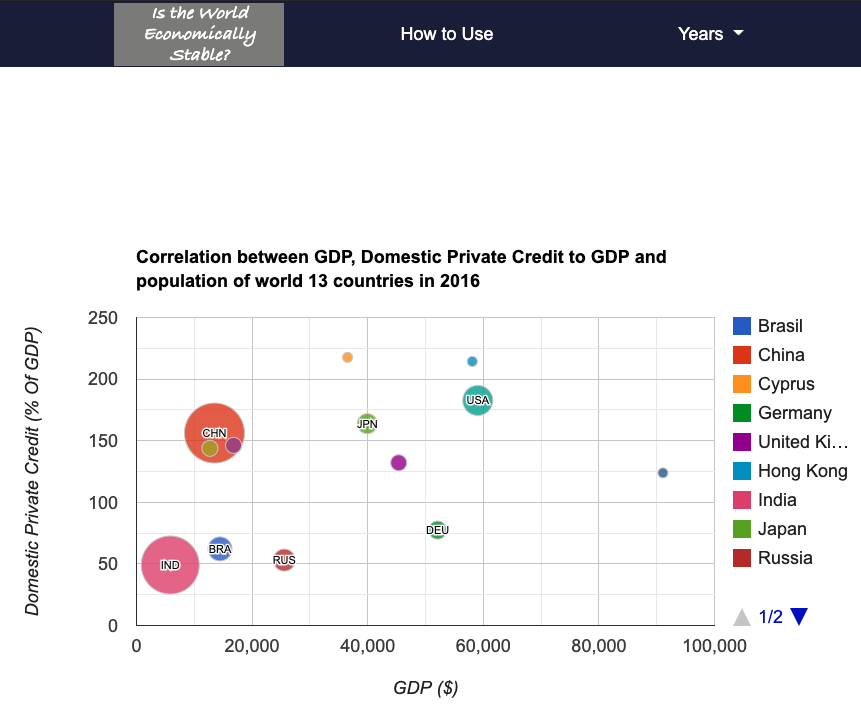
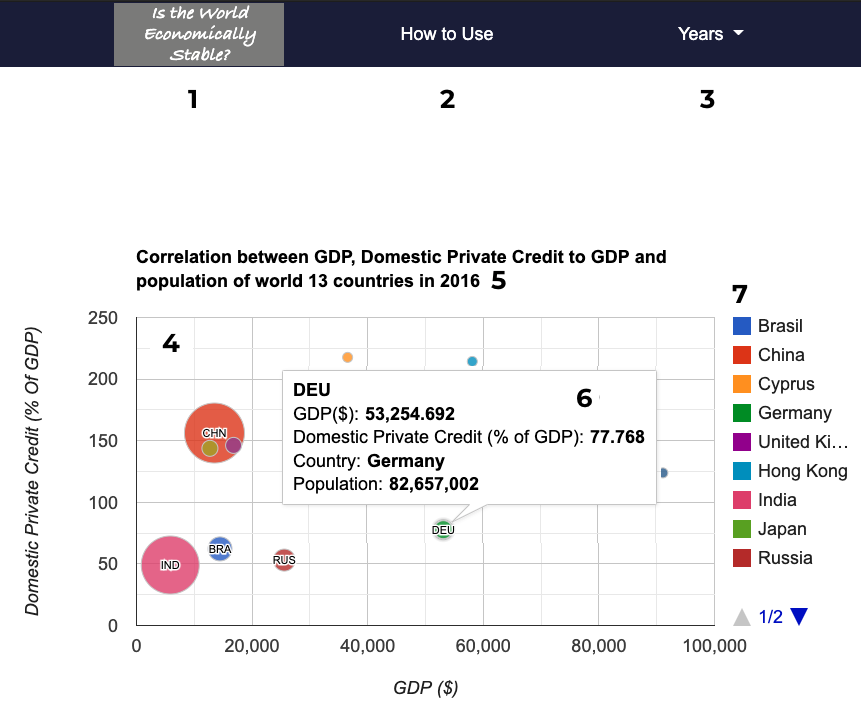
Equipped How to Use page with a image and explanation list

diff --git a/assets/HTML/howtouse.html b/assets/HTML/howtouse.html
@@ -25,18 +25,18 @@
         </ul>
       </nav>
     </header>
-   
-    <div class=main>
-      <div class="title-call">
-        <p>how to use</p>
-      </div>
-      <div class="explanation">
-        <img src="../image/howtouse.png" id="howtouse">
-      </div>
+    <div class="explanation">
+      <img src="../image/howtouse.png" id="howtouse">
     </div>
-    <svg xmlns="http://www.w3.org/2000/svg" width="16" height="16" fill="currentColor" class="bi bi-chat" viewBox="0 0 16 16">
-      <path d="M2.678 11.894a1 1 0 0 1 .287.801 10.97 10.97 0 0 1-.398 2c1.395-.323 2.247-.697 2.634-.893a1 1 0 0 1 .71-.074A8.06 8.06 0 0 0 8 14c3.996 0 7-2.807 7-6 0-3.192-3.004-6-7-6S1 4.808 1 8c0 1.468.617 2.83 1.678 3.894zm-.493 3.905a21.682 21.682 0 0 1-.713.129c-.2.032-.352-.176-.273-.362a9.68 9.68 0 0 0 .244-.637l.003-.01c.248-.72.45-1.548.524-2.319C.743 11.37 0 9.76 0 8c0-3.866 3.582-7 8-7s8 3.134 8 7-3.582 7-8 7a9.06 9.06 0 0 1-2.347-.306c-.52.263-1.639.742-3.468 1.105z"/>
-    </svg>
+      <ol class="numbers" aria-labelledby="numbers">
+        <strong><li>Home</li></strong>
+        <strong><li>This page</li></strong>
+        <strong><li>Click Chart in the navigator bar, then click Years to choose year for a chart</li></strong>
+        <strong><li>Chart</li></strong>
+        <strong><li>The year chosen for a chart is indicated here</li></strong>
+        <strong><li>Details indicated by hovering over bubbles which represents every country on the chart</li></strong>
+        <strong><li>Country name appeared on the chart</li></strong>
+      </ol>
     <footer>
       <div class="img">
         <img src="../image/Git.png" id ="gh">

diff --git a/assets/js/charts.js b/assets/js/charts.js
@@ -410,7 +410,7 @@ function dataOnClick() {
 
   function drawSeriesChart() {
     var data = google.visualization.arrayToDataTable([
-      ['ID', 'GDP', 'Domestic Private Credit to GDP', 'Country', 'Population'],
+      ['ID', 'GDP($)', 'Domestic Private Credit (% of GDP)', 'Country', 'Population'],
       ['BRA',    byYearBraGdp[0],       byYearBraDc[0],      'Brasil',  byYearBraPl[0]],
       ['CHN',    byYearChnGdp[0],              byYearChnDc[0],      'China',         byYearChnPl[0]],
       ['CYP',    byYearCypGdp[0],               byYearCypDc[0],      'Cyprus',         byYearCypPl[0]],

diff --git a/assets/CSS/howtouse.css b/assets/CSS/howtouse.css
@@ -1,6 +1,5 @@
 .wrapper {
   width: 100%;
-  margin: 0 auto;
 }
 
 .site-header {
@@ -41,20 +40,25 @@
   font-size: large;
 }
 
-.main {
-  width: 950px;
-  margin: 0 auto;
-} 
-
 .explanation {
+  width: 950px;
+  margin-left: 430px;
   margin-top: 100px;
   text-align: center;
+  float: left;
   box-shadow: 5px 5px 5px 5px rgba(0,0,0,0.3);
 }
 
 #howtouse {
-  width: 70%;
-  height: 70%;
+  width: 80%;
+}
+
+.numbers {
+  width: 450px;
+  margin-top: 300px;
+  padding: 30px 30px 30px 60px;
+  overflow: hidden;
+  border-color: darkgray;
 }
 
 footer {
